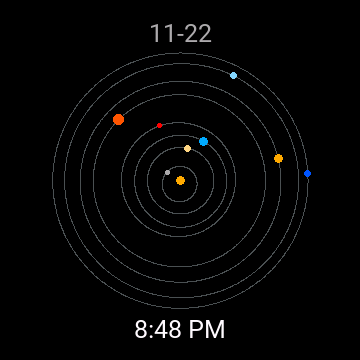
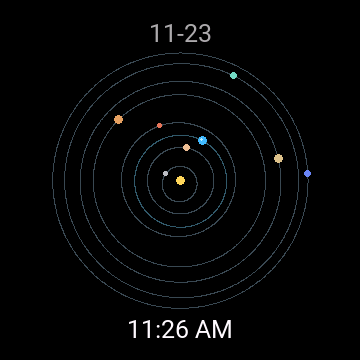
Release tv-orbit v1.1.0

diff --git a/tv-orbit/tools/make_orbits.py b/tv-orbit/tools/make_orbits.py
@@ -1,6 +1,6 @@
 """Build the 265S orbit backgrounds from the watch's JPL elements and projection."""
 from ast import literal_eval
-from math import cos, sin, radians, tau, sqrt, hypot, log, log1p
+from math import cos, sin, radians, tau, sqrt, hypot, log1p
 from pathlib import Path
 import re
 
@@ -15,9 +15,11 @@ def constant(name):
 
 
 ELEMENTS = constant("ELEMENTS")
-RADIUS, LIMIT, UNIT, HALF = map(constant, ("CHART_RADIUS", "LIMIT_AU", "LOG_UNIT", "HALF"))
+RADIUS, LIMIT, HALF, RING_STEP = map(constant, ("CHART_RADIUS", "LIMIT_AU", "HALF", "RING_STEP"))
 INNER, INNER_SCALE = map(constant, ("INNER_AU", "INNER_PX_PER_AU"))
-MODES = ("inner", "linear", "log")
+NEAR, NEAR_SCALE, BALANCED_UNIT = map(constant, ("NEAR_INNER_AU", "NEAR_PX_PER_AU", "BALANCED_UNIT"))
+EARTH = constant("EARTH")
+MODES = ("inner", "linear", "log", "concentric")
 # 2026-01-01 noon UTC. Planet markers use the orbital elements of the displayed day.
 TRACK_EPOCH = 9497 / 36525
 
@@ -30,31 +32,45 @@ def ellipse(row, t, anomaly):
     return u*cos(node) - v*sin(node), u*sin(node) + v*cos(node)
 
 
-def project(x, y, mode):
-    scale = RADIUS / LIMIT
-    if mode == "inner":
-        r = hypot(x, y)
-        edge = INNER * INNER_SCALE
-        scale = INNER_SCALE if r <= INNER else (edge + (RADIUS-edge)*log(r/INNER)/log(LIMIT/INNER))/r
-    elif mode == "log":
-        r = hypot(x, y)
-        scale = RADIUS * log1p(r / UNIT) / (log1p(LIMIT / UNIT) * r)
+def project(x, y, mode, planet):
+    r = hypot(x, y)
+    if mode == "concentric":
+        scale = (planet + 1) * RING_STEP / r
+    else:
+        inner, scale = (INNER, INNER_SCALE) if mode == "inner" else (NEAR, NEAR_SCALE)
+        if r > inner:
+            offset = r - inner
+            span = LIMIT - inner
+            edge = inner * scale
+            if mode == "linear":
+                fraction = offset / span
+            else:
+                unit = INNER if mode == "inner" else BALANCED_UNIT
+                fraction = log1p(offset / unit) / log1p(span / unit)
+            scale = (edge + (RADIUS - edge) * fraction) / r
     return x*scale, -y*scale
 
 
 def generate():
+    palette = b"".join(color.to_bytes(3, "big") for color in
+                       (0, constant("TRACK_COLOR"), constant("EARTH_TRACK_COLOR")))
     for mode in MODES:
         image = Image.new("P", (2*HALF+1, 2*HALF+1), 0)
-        image.putpalette([0, 0, 0, 0x48, 0x50, 0x55])
+        image.putpalette(palette)
         draw = ImageDraw.Draw(image)
-        for row in ELEMENTS:
+        for planet, row in enumerate(ELEMENTS):
+            color = 2 if planet == EARTH else 1
+            if mode == "concentric":
+                r = (planet + 1) * RING_STEP
+                draw.ellipse((HALF - r, HALF - r, HALF + r, HALF + r), outline=color)
+                continue
             path = []
             for step in range(1024):
                 xy = ellipse(row, TRACK_EPOCH, tau * step / 1024)
-                dx, dy = project(*xy, mode)
+                dx, dy = project(*xy, mode, planet)
                 path.append((HALF + round(dx), HALF + round(dy)))
-            draw.line(path + path[:1], fill=1)
-        image.save(ROOT / f"resources/drawables/{mode}-orbits.png", bits=1)
+            draw.line(path + path[:1], fill=color)
+        image.save(ROOT / f"resources/drawables/{mode}-orbits.png", bits=2)
 
 
 if __name__ == "__main__":

diff --git a/DEVELOPMENT.md b/DEVELOPMENT.md
@@ -13,7 +13,7 @@
 | [Orbits.mc](tv-orbit/source/Orbits.mc) | Orbit 专用的八颗行星位置计算、缓存和绘制 |
 | 各项目的 `resources*` | 设备资源、三种菜单语言和设备图像 |
 
-Minimal 沿用手表本地 Storage 和 12 个预设色。其他三款的手表菜单和配套设置页共用 Properties。Terminal 的时间制式存储为 0／1／2，Orbit 存储为 0／12／24，分别代表跟随、12 小时和 24 小时。Orbit 的轨道比例以 2 表示内圈优先（默认），0 表示线性实距，1 表示对数距离。维护菜单时保留这些值、Storage 键、属性类型和各款默认值。
+Minimal 沿用手表本地 Storage 和 12 个预设色。其他三款的手表菜单和配套设置页共用 Properties。Terminal 的时间制式存储为 0／1／2，Orbit 存储为 0／12／24，分别代表跟随、12 小时和 24 小时。Orbit 的轨道比例沿用 2／0／1，分别对应内圈放大（默认）、近似实距和均衡分布，新增 3 代表同心圆。`orbitRefreshDays` 存储更新间隔的天数，默认为 2。维护菜单时保留这些值、Storage 键、属性类型和各款默认值。
 
 菜单先放时间制式和颜色，再放布局、电量、数据行，最后放采样频率。每款只列出实际支持的设置。配套设置的项目顺序与手表一致。经 USB 侧载的 PRG 使用手表菜单。手机设置页适用于通过 Connect IQ 商店安装的应用，直接输入 HEX。[Garmin 设置说明](https://forums.garmin.com/developer/connect-iq/w/wiki/4/new-developer-faq#app-settings)
 
@@ -36,7 +36,7 @@ monkeyc -f "$face/monkey.jungle" -d fr265s -y $env:CIQ_DEVELOPER_KEY -o "bin/$fa
 monkeydo "bin/$face/$file.prg" fr265s
 ```
 
-仓库根目录的 `monkey.jungle` 可构建 Minimal。其他项目从同一份仓库检出构建，以便引用相邻的 `shared`。Terminal 和 LED 的字模已随项目提交。运行 `python tv-orbit/tools/make_orbits.py` 可用 Pillow 重建三张轨道底图，运行 `python tv-led/tools/make_fonts.py` 可重建七段字模。测试套件和星历核对脚本由维护者在本地运行。
+仓库根目录的 `monkey.jungle` 可构建 Minimal。其他项目从同一份仓库检出构建，以便引用相邻的 `shared`。Terminal 和 LED 的字模已随项目提交。运行 `python tv-orbit/tools/make_orbits.py` 可用 Pillow 重建四张轨道底图，运行 `python tv-led/tools/make_fonts.py` 可重建七段字模。测试套件和星历核对脚本由维护者在本地运行。
 
 ## v1.0.0 性能与验证
 

diff --git a/README.md b/README.md
@@ -4,7 +4,7 @@
 
 | 表盘与预览 | 风格 | 版本 | 265S 安装包 |
 | --- | --- | --- | --- |
-| [tv-orbit](tv-orbit/) | 八颗行星的日心轨道，内圈优先，可切换线性实距和对数距离 | [v1.0.0 正式版](https://github.com/thetvplus/tv-watchface/releases/tag/tv-orbit-v1.0.0) | [TVORBIT.prg](https://github.com/thetvplus/tv-watchface/releases/download/tv-orbit-v1.0.0/TVORBIT.prg) |
+| [tv-orbit](tv-orbit/) | 太阳系表盘，含四种轨道样式和可调更新间隔 | [v1.1.0 正式版](https://github.com/thetvplus/tv-watchface/releases/tag/tv-orbit-v1.1.0) | [TVORBIT.prg](https://github.com/thetvplus/tv-watchface/releases/download/tv-orbit-v1.1.0/TVORBIT.prg) |
 | [tv-led](tv-led/) | 70 年代 LED 电子表，七段数字只显示时分 | [v1.0.0 正式版](https://github.com/thetvplus/tv-watchface/releases/tag/tv-led-v1.0.0) | [TVLED.prg](https://github.com/thetvplus/tv-watchface/releases/download/tv-led-v1.0.0/TVLED.prg) |
 | [tv-terminal](tv-terminal/) | 80 年代终端，点阵时间和三行可选读数 | [v1.0.0 正式版](https://github.com/thetvplus/tv-watchface/releases/tag/tv-terminal-v1.0.0) | [TVTERM.prg](https://github.com/thetvplus/tv-watchface/releases/download/tv-terminal-v1.0.0/TVTERM.prg) |
 | [tv Minimal](tv-minimal/) | 系统字体，大号时间和三项日常读数 | [v1.0.0 正式版](https://github.com/thetvplus/tv-watchface/releases/tag/v1.0.0) | [TVMIN.prg](https://github.com/thetvplus/tv-watchface/releases/latest/download/TVMIN.prg) |
